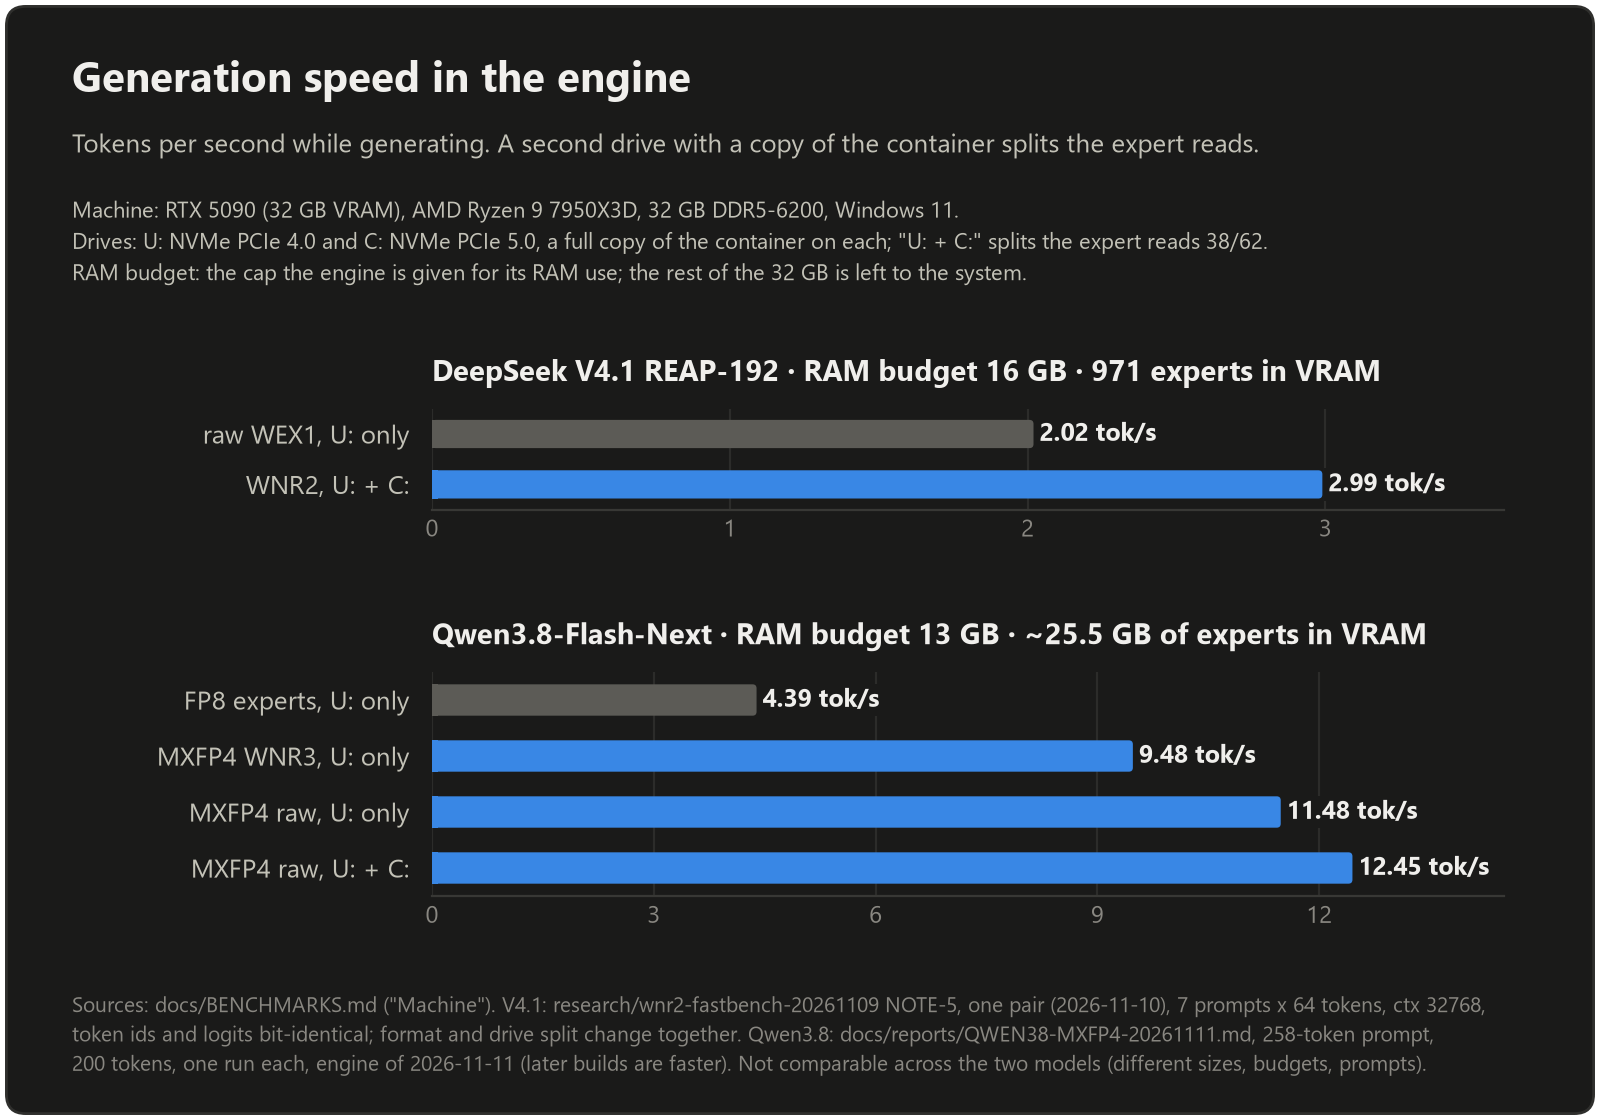
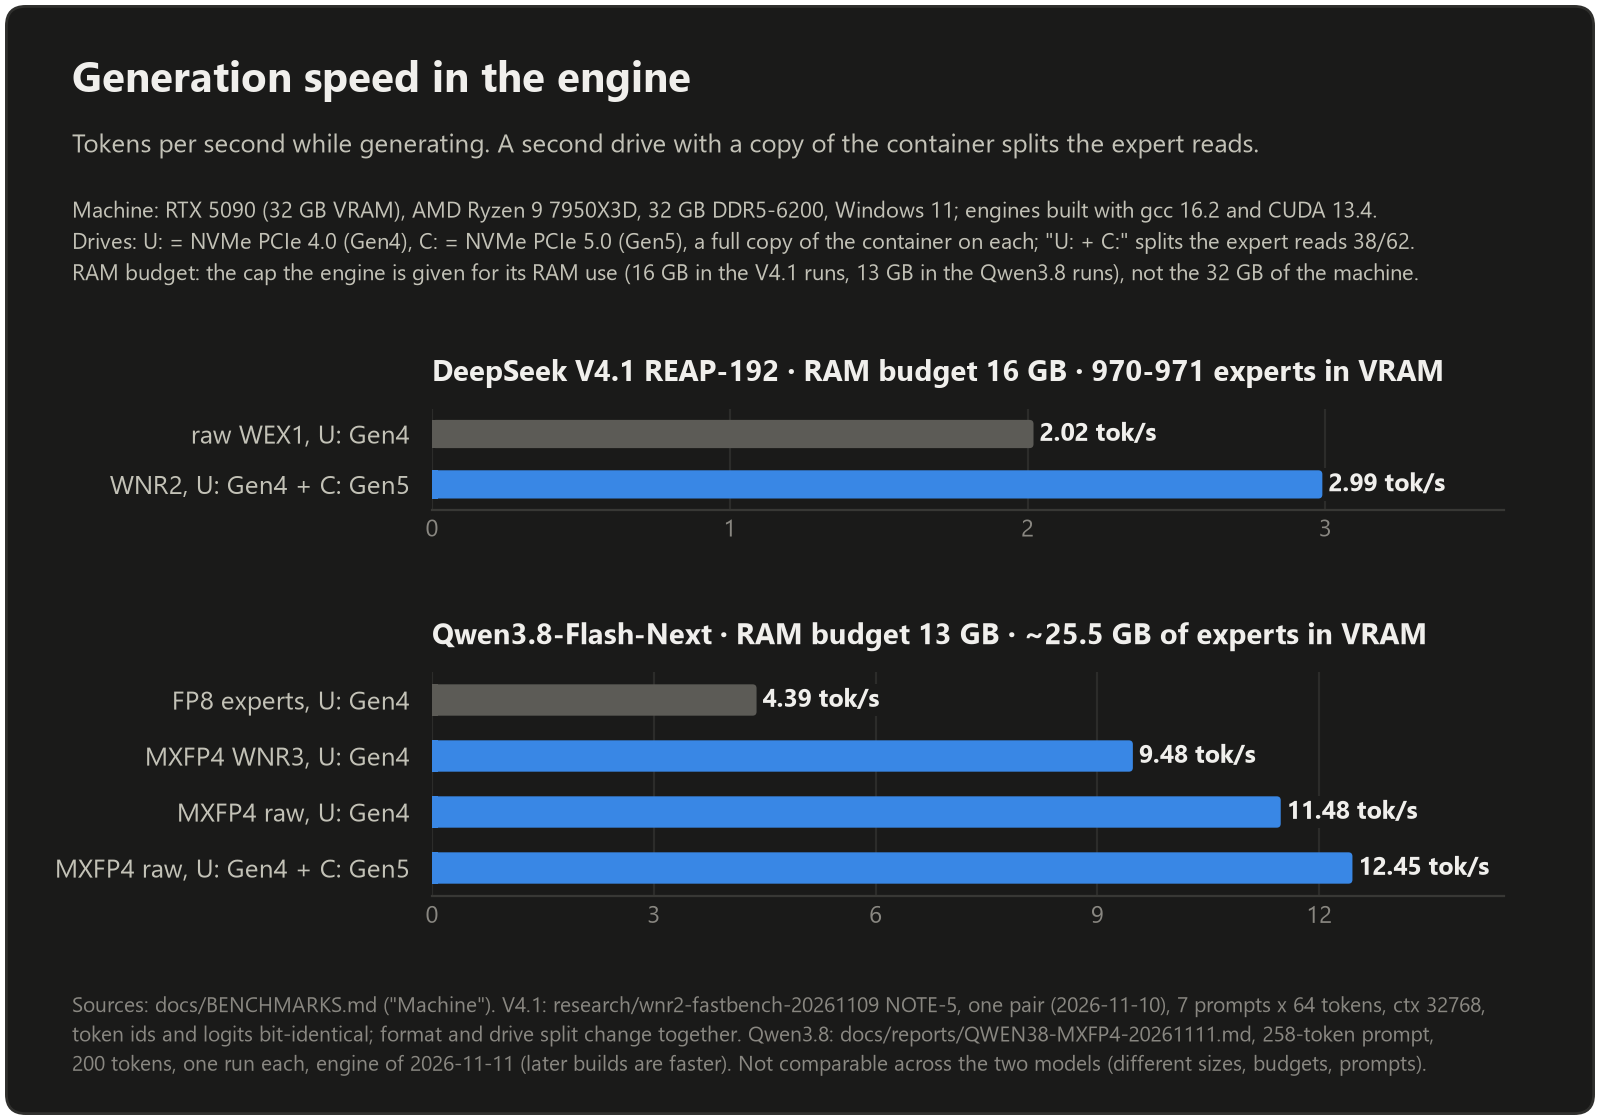
charts: drive PCIe generation, RAM budget and build in the speed chart
Speed chart: every bar names its drive generation (U: Gen4, C: Gen5),
the machine lines give the build (gcc 16.2, CUDA 13.4) and each model's
engine RAM budget (16 GB V4.1, 13 GB Qwen3.8); V4.1 VRAM experts read
970-971 (arms B and A of NOTE-5). GPU decode chart: no RAM budget, no
drive read. Alt texts and the README caption carry the same facts.
No measured number changed.

diff --git a/scripts/make_charts.py b/scripts/make_charts.py
@@ -85,26 +85,29 @@ def chart_codecs(t):
     return fig
 
 
-MACHINE = ('Machine: RTX 5090 (32 GB VRAM), AMD Ryzen 9 7950X3D, 32 GB DDR5-6200, Windows 11.\n'
-           'Drives: U: NVMe PCIe 4.0 and C: NVMe PCIe 5.0, a full copy of the container on each; "U: + C:" splits the '
-           'expert reads 38/62.\nRAM budget: the cap the engine is given for its RAM use; the rest of the 32 GB is '
-           'left to the system.')
+MACHINE = ('Machine: RTX 5090 (32 GB VRAM), AMD Ryzen 9 7950X3D, 32 GB DDR5-6200, Windows 11; engines built with gcc '
+           '16.2 and CUDA 13.4.\nDrives: U: = NVMe PCIe 4.0 (Gen4), C: = NVMe PCIe 5.0 (Gen5), a full copy of the '
+           'container on each; "U: + C:" splits the expert reads 38/62.\nRAM budget: the cap the engine is given for '
+           'its RAM use (16 GB in the V4.1 runs, 13 GB in the Qwen3.8 runs), not the 32 GB of the machine.')
 
 
 def chart_speed(t):
     # V4.1: research/wnr2-fastbench-20261109/NOTE-5-mirror-ab-20261110.md (docs/BENCHMARKS.md "containers, drives
-    # and decode speed", first row): RAM_GB 16, ctx 32768, 7 prompts x 64 tokens, one pair, 971 experts in VRAM.
-    # Qwen3.8: docs/reports/QWEN38-MXFP4-20261111.md "Speed": RAM 13 GB, 258-token prompt, 200 tokens, one run each.
-    v41 = [('raw WEX1, U: only', 2.02, 'gray'), ('WNR2, U: + C:', 2.99, 'blue')]
-    q38 = [('FP8 experts, U: only', 4.39, 'gray'), ('MXFP4 WNR3, U: only', 9.48, 'blue'),
-           ('MXFP4 raw, U: only', 11.48, 'blue'), ('MXFP4 raw, U: + C:', 12.45, 'blue')]
+    # and decode speed", first row): RAM_GB 16 in both arms, ctx 32768, 7 prompts x 64 tokens, one pair, 971 (A) and
+    # 970 (B) experts in VRAM; A read U: only, B U: + C: split 38/62 (OS read bytes C: 61%, U: 39%).
+    # Qwen3.8: docs/reports/QWEN38-MXFP4-20261111.md "Speed": RAM 13 GB ("ram_gb": 13 in every speed-*.json),
+    # 258-token prompt, 200 tokens, one run each. The FP8 snapshot is on U: (docs/reports/WNR3-VERIFY.md, disk table;
+    # the --snap path in research/qwen38-mxfp4-20261111/q_ab.py).
+    v41 = [('raw WEX1, U: Gen4', 2.02, 'gray'), ('WNR2, U: Gen4 + C: Gen5', 2.99, 'blue')]
+    q38 = [('FP8 experts, U: Gen4', 4.39, 'gray'), ('MXFP4 WNR3, U: Gen4', 9.48, 'blue'),
+           ('MXFP4 raw, U: Gen4', 11.48, 'blue'), ('MXFP4 raw, U: Gen4 + C: Gen5', 12.45, 'blue')]
     h = 5.6
     fig = cs.figure(t, h)
     cs.header(fig, t, 'Generation speed in the engine', 'Tokens per second while generating. A second drive '
               'with a copy of the container splits the expert reads.', h)
     fig.text(0.045, 1 - 0.98 / h, MACHINE, fontsize=8, color=t['ink2'], va='top', linespacing=1.5)
     ax1 = cs.axes(fig, t, [0.27, 0.545, 0.67, 0.09],
-                  'DeepSeek V4.1 REAP-192 · RAM budget 16 GB · 971 experts in VRAM')
+                  'DeepSeek V4.1 REAP-192 · RAM budget 16 GB · 970-971 experts in VRAM')
     ax2 = cs.axes(fig, t, [0.27, 0.2, 0.67, 0.2],
                   'Qwen3.8-Flash-Next · RAM budget 13 GB · ~25.5 GB of experts in VRAM')
     for ax, rows, xmax in ((ax1, v41, 3.6), (ax2, q38, 14.5)):

diff --git a/research/wnr4-20261121/charts.py b/research/wnr4-20261121/charts.py
@@ -60,8 +60,8 @@ def chart_gpu(t):
               'Decoded GB/s, kernel time, records in VRAM, both codecs in one run. WNR4: one launch per batch;\n'
               'WNR3: two kernels per record on 8 streams.', h)
     fig.text(0.045, 1 - 1.18 / h, 'Machine: RTX 5090 (32 GB VRAM, PCIe 5.0 x16), AMD Ryzen 9 7950X3D, 32 GB '
-             'DDR5-6200, Windows 11, CUDA 13.4.\nNo engine and no drive in these runs: the records were loaded into '
-             'VRAM first, so neither the RAM nor the drives limit them.', fontsize=8, color=t['ink2'], va='top',
+             'DDR5-6200, Windows 11, CUDA 13.4.\nNo engine, so no RAM budget, and no NVMe drive read (neither PCIe 4.0 '
+             'nor 5.0): the records were loaded into VRAM first.', fontsize=8, color=t['ink2'], va='top',
              linespacing=1.5)
     colors = {'WNR4 G=128': t['blue'], 'WNR3 kernels': t['orange']}
     for k, (title, data, bs) in enumerate((('Qwen3.8 MXFP4 (2.6 MB records)', q38, batches),

diff --git a/CHANGELOG.md b/CHANGELOG.md
@@ -6,6 +6,8 @@ Entries are dated; commit ids of the maintainer's engine tree, which is not publ
 
 ## 2026-11-21
 
+- **2026-11-21** Charts and documentation, no format byte, ABI or feature bit changed and no file under `c/` changed. The speed chart (`assets/charts/speed-*.png`, drawn by `scripts/make_charts.py`) names the PCIe generation of the drive in every bar label (U: Gen4, C: Gen5), the build (gcc 16.2, CUDA 13.4) and each model's engine RAM budget (16 GB V4.1, 13 GB Qwen3.8) in its machine lines, and gives 970-971 experts in VRAM for V4.1 (971 in arm A, 970 in arm B of NOTE-5; it said 971). The GPU decode chart of `research/wnr4-20261121/charts/` says that its runs had no RAM budget and read no drive. The alt texts of both charts in [README.md](README.md), [docs/reports/wnr4-research-20261121.md](docs/reports/wnr4-research-20261121.md) and [research/wnr4-20261121/README.md](research/wnr4-20261121/README.md), and the README's caption under the charts, carry the same facts. No measured number changed.
+
 - **2026-11-21** Documentation, no format byte, ABI or feature bit changed and no file under `c/` changed: the WNR4 results of the day in the pages that are read first. New `research/wnr4-gg-20261121/`: the scripts and logs of the kind GG measurements (the first check on 96 sampled experts of Qwen3.8-Flash-Next UD-IQ1_M, the GPU test, the whole UD-IQ1_M routed experts as a RAW and a WNR4-GG container, and a second GGUF expert pack: 0.9763 of raw on 288 held-out records, no gain when the experts are read from disk). [docs/WNR4-SPEC.md](docs/WNR4-SPEC.md) section 5.5: in "First check", 16.9 GB/s and 0.863 ms are corrected to 16.8 GB/s and 0.861 ms, the figures of the logged run, which that folder now holds, and an informative paragraph gives the whole-model and second-pack results; section 7 gains informative notes (no engine integrates WNR4, int4-g64 as a candidate kind, IQ2 blocks in kind GG). [docs/reports/wnr4-research-20261121.md](docs/reports/wnr4-research-20261121.md) gains a section 8, a follow-up of the same day; sections 1 to 7 are unchanged except for dated pointers to it in section 7. [STATUS.md](STATUS.md) gains a WNR4 line: a draft, in no production container or engine, its engine integration analysed and not done. [README.md](README.md), [docs/GLOSSARY.md](docs/GLOSSARY.md) and [docs/HELP-WANTED.md](docs/HELP-WANTED.md) are updated for WNR4; [docs/BENCHMARKS.md](docs/BENCHMARKS.md) gains a WNR4 section (the kernel, end-to-end, helper and CPU speeds of kinds MX and NV from section 5 of the report, and the GPU, size and CPU figures of kind GG); [docs/WEX4-SPEC.md](docs/WEX4-SPEC.md) notes, in its non-goals and in section 12.2, that the "WNR4 record" of section 12 is the earlier skeleton-only proposal, not adopted, and that the name WNR4 now refers to the draft of WNR4-SPEC, a different design; [docs/README.md](docs/README.md) and [research/README.md](research/README.md) list the new research folder. New [wnr4/README.md](wnr4/README.md): the files of `wnr4/`, their build and test lines, the helper's ABI 5 entry points, packing and verifying, and what is not in CI.
 
 - **2026-11-21** Research and a draft, no byte of an existing format or feature bit changed, no file under `c/` changed and no verdict of a conformance vector changed. WNR4 kind 2, "GG" ([docs/WNR4-SPEC.md](docs/WNR4-SPEC.md) section 5): the 18-byte blocks (f16 scale, 16 code bytes) of the GGUF Q2_0 (ggml type 42) and IQ4_NL (20) slices of a GGUF routed-expert record in WNR4 tiles, with a WNM4 model of kind 2 (36,644 bytes); the other slices are stored verbatim in the record and are outside the tile hash. CPU codec `wnr4/wnr4_gg.h`, ctypes API `wnr4/tools/wnr4_gg_tools.c`, CPU tests `wnr4/tests/test_wnr4_gg.c`, CUDA decoder `wnr4/wnr4_gg_cuda.cuh` and GPU test `wnr4/tests/test_wnr4_gg_gpu.cu` (sm_120, not in CI). The prototype CUDA helper `wnr4/tools/wnr4_cuda_bridge.cu` adds the GG entry points, and its `wnr4_cuda_abi()` is now 5 (was 4); its MX and NV entry points are unchanged. [docs/WEX4-SPEC.md](docs/WEX4-SPEC.md) assigns, as a draft, codec 8 to WNR4 records and blob kind 3 to WNM4 models (sections 5.1, 5.2, 7, 7.3), on records that are neither EXPERT nor VALUE_EXACT only, so a reader without them opens the file and refuses to decode those records; a reader that decodes codec 8 must check the record's SHA-256 at its first read, since nothing else covers the verbatim slices (sections 7.3, 8.2, 9); conformance vectors for codec 8 wait until the draft is adopted. Section 14.1 says how a GGUF container carries WNR4-GG expert records. `wex4/wnr4gg.py` trains, packs (G = 32 by default) and verifies such containers from the RAW containers of `wex4/gguf2wex4.py` and rebuilds the GGUF parts from them (`unpack`); its tests are `wex4/test_wnr4gg.py`. For it the writer of `wex4/wex4.py` lets a record coded elsewhere name its model blob, and `unpack` of `wex4/gguf2wex4.py` takes the reader to open the container with. `wex4/gguf2wex4.py pack --experts-only` writes the routed-expert records only (the trunk and the other tensors stay in the GGUF; metadata key `"experts_only":true`), and `unpack` refuses such a container, which cannot rebuild the GGUF. `c/wex4.h` and `wex4/wex4.py` do not decode codec 8, and no production container or engine uses it. New `scripts/build_wnr4_check.sh` builds and runs the WNR4 CPU tests (`wnr4/tests/test_wnr4.c` and `test_wnr4_gg.c`); `scripts/check_all.sh` now runs it and the two GGUF Python tests, `wex4/test_gguf2wex4.py` and `wex4/test_wnr4gg.py`. CI (`.github/workflows/ci.yml`) now expects four `compiler:` lines in the `macos-clang` and `linux-tsan` jobs. `wnr4/tests/sample_gg_experts.py` writes the input of the GPU test from a GGUF part. Checked with `scripts/check_all.sh` on Windows (MSYS2 UCRT64 gcc 16.2, Python 3.14; last line `all checks passed`), the GPU test on an RTX 5090 (CUDA 13.4, sm_120: every real and synthetic record decoded bit-exact through the helper, flipped records refused, 4, 8 and 16 warps per block) and, on a second machine, a 34.9 GB experts-only RAW container of Qwen3.8-Flash-Next UD-IQ1_M whose 24,576 records all equal the GGUF slices they came from, and its WNR4-GG container (G = 32, model trained on every 8th record): 33,377,181,696 bytes against 34,862,370,816 (records 0.9574 of raw), every record decoded on the CPU identical to the RAW container; not run on Linux or macOS here.

diff --git a/README.md b/README.md
@@ -169,7 +169,7 @@ The V4.1 switch report's own reading of its numbers: on this machine the second 
 
 <picture>
   <source media="(prefers-color-scheme: dark)" srcset="assets/charts/speed-dark.png">
-  <img alt="Bar chart: tokens per second on an RTX 5090 (32 GB VRAM) with a Ryzen 9 7950X3D and 32 GB of RAM; drive U: is NVMe PCIe 4.0, C: NVMe PCIe 5.0. DeepSeek V4.1, RAM budget 16 GB: raw WEX1 on U: 2.02, WNR2 on U: + C: 2.99. Qwen3.8-Flash-Next, RAM budget 13 GB: FP8 experts 4.39, MXFP4 WNR3 on U: 9.48, MXFP4 raw on U: 11.48, MXFP4 raw on U: + C: 12.45." src="assets/charts/speed-light.png" width="800">
+  <img alt="Bar chart: tokens per second on an RTX 5090 (32 GB VRAM) with a Ryzen 9 7950X3D and 32 GB of DDR5-6200, Windows 11, engines built with gcc 16.2 and CUDA 13.4; drive U: is NVMe PCIe 4.0 (Gen4), C: NVMe PCIe 5.0 (Gen5), and U: + C: splits the expert reads 38/62. DeepSeek V4.1, engine RAM budget 16 GB: raw WEX1 on U: 2.02, WNR2 on U: + C: 2.99. Qwen3.8-Flash-Next, engine RAM budget 13 GB: FP8 experts on U: 4.39, MXFP4 WNR3 on U: 9.48, MXFP4 raw on U: 11.48, MXFP4 raw on U: + C: 12.45." src="assets/charts/speed-light.png" width="800">
 </picture>
 
 <picture>
@@ -177,7 +177,7 @@ The V4.1 switch report's own reading of its numbers: on this machine the second 
   <img alt="Bar charts: 136 conformance vectors (16 accepted, 120 refused, by error class) and 14 CI jobs per pull request (Linux x86-64 7, Linux arm64 3, macOS arm64 3, Windows 1)." src="assets/charts/tests-light.png" width="800">
 </picture>
 
-Each chart names its source in its footnote; `python scripts/make_charts.py` draws them again (matplotlib), in a light and a dark version. The "original" bars are the expert bytes of the published safetensors: `python -I scripts/expert_bytes.py REPO PROFILE` sums them from the shard headers on Hugging Face (two range requests per shard, no tensor data).
+Each chart names its source in its footnote. The speed chart was measured on one desktop (RTX 5090 32 GB, Ryzen 9 7950X3D, 32 GB DDR5-6200, Windows 11; drive U: NVMe PCIe 4.0, C: NVMe PCIe 5.0) and gives, per model, the RAM budget of the engine (16 GB for V4.1, 13 GB for Qwen3.8) and, per bar, the drive or drives the experts were read from ([docs/BENCHMARKS.md](docs/BENCHMARKS.md), "Machine"); the size and codec charts do not depend on the machine. `python scripts/make_charts.py` draws them again (matplotlib), in a light and a dark version. The "original" bars are the expert bytes of the published safetensors: `python -I scripts/expert_bytes.py REPO PROFILE` sums them from the shard headers on Hugging Face (two range requests per shard, no tensor data).
 
 ## What runs today
 

diff --git a/docs/reports/wnr4-research-20261121.md b/docs/reports/wnr4-research-20261121.md
@@ -17,7 +17,7 @@
 
 <picture>
   <source media="(prefers-color-scheme: dark)" srcset="../../research/wnr4-20261121/charts/wnr4-gpu-dark.png">
-  <img alt="Line charts: GPU decode GB/s by records per batch on an RTX 5090 (WNR4 one launch per batch, WNR3 two kernels per record). Qwen3.8 MXFP4 at 128 records: WNR4 209, WNR3 kernels 91. DeepSeek V4.1 at 32 records: WNR4 187, WNR3 kernels 105." src="../../research/wnr4-20261121/charts/wnr4-gpu-light.png" width="800">
+  <img alt="Line charts: GPU decode GB/s by records per batch on an RTX 5090 (32 GB, PCIe 5.0 x16) with a Ryzen 9 7950X3D, 32 GB of DDR5-6200, Windows 11 and CUDA 13.4, kernel time with the records already in VRAM: no engine, so no RAM budget, and no drive read (WNR4 one launch per batch, WNR3 two kernels per record). Qwen3.8 MXFP4 at 128 records: WNR4 209, WNR3 kernels 91. DeepSeek V4.1 at 32 records: WNR4 187, WNR3 kernels 105." src="../../research/wnr4-20261121/charts/wnr4-gpu-light.png" width="800">
 </picture>
 
 <picture>

diff --git a/research/wnr4-20261121/README.md b/research/wnr4-20261121/README.md
@@ -31,7 +31,7 @@ Stored / raw (records padded to 4096 B), 2048 held-out records each, every recor
 
 <picture>
   <source media="(prefers-color-scheme: dark)" srcset="charts/wnr4-gpu-dark.png">
-  <img alt="Line charts: GPU decode GB/s by records per batch on an RTX 5090 (WNR4 one launch per batch, WNR3 two kernels per record). Qwen3.8 MXFP4 at 128 records: WNR4 209, WNR3 kernels 91. DeepSeek V4.1 at 32 records: WNR4 187, WNR3 kernels 105." src="charts/wnr4-gpu-light.png" width="800">
+  <img alt="Line charts: GPU decode GB/s by records per batch on an RTX 5090 (32 GB, PCIe 5.0 x16) with a Ryzen 9 7950X3D, 32 GB of DDR5-6200, Windows 11 and CUDA 13.4, kernel time with the records already in VRAM: no engine, so no RAM budget, and no drive read (WNR4 one launch per batch, WNR3 two kernels per record). Qwen3.8 MXFP4 at 128 records: WNR4 209, WNR3 kernels 91. DeepSeek V4.1 at 32 records: WNR4 187, WNR3 kernels 105." src="charts/wnr4-gpu-light.png" width="800">
 </picture>
 
 <picture>
